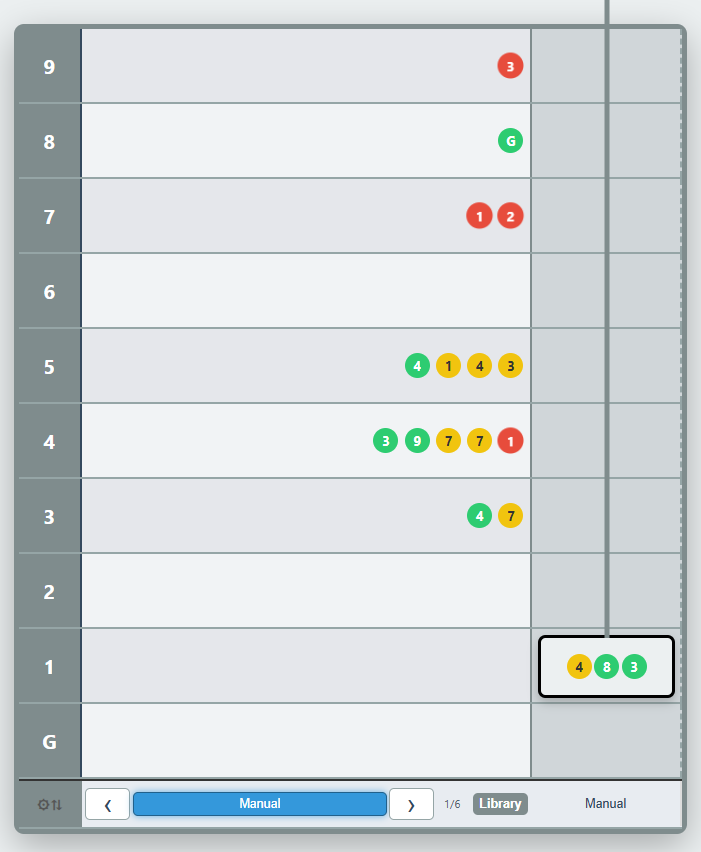
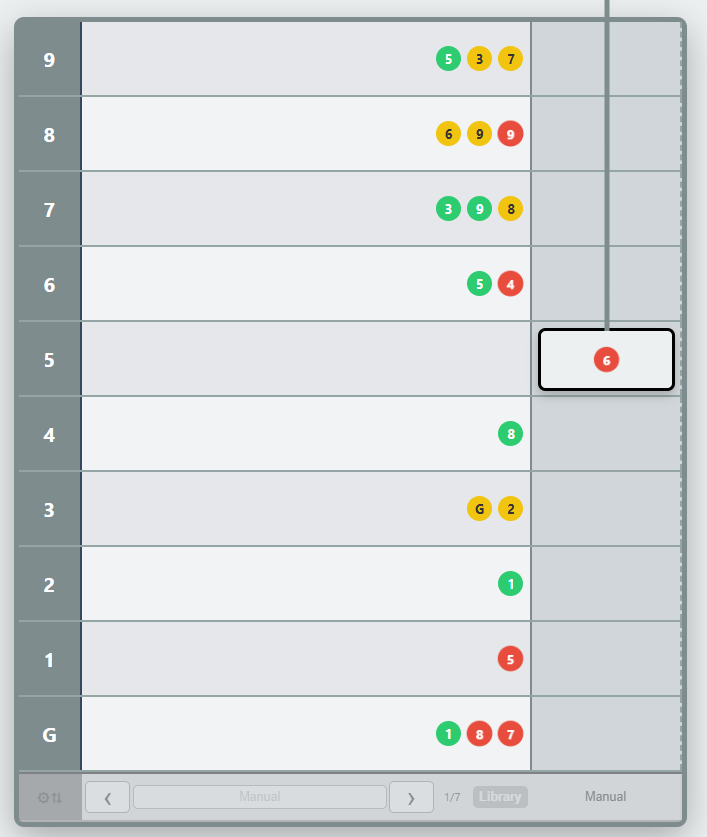
Polish release candidate feedback flow

diff --git a/tests/lifecycle-correctness.spec.js b/tests/lifecycle-correctness.spec.js
@@ -146,7 +146,7 @@ test('briefing removes redundant objective/loadout copy and presents introductio
     expect(result.roomServiceIntro.cartHeader).not.toContain('Cart');
     expect(result.roomServiceIntro.cartItemCount).toBe('1');
     expect(result.roomServiceIntro.cartItemLabel).toContain('Air Freshener');
-    expect(result.roomServiceIntro.cartTotal.split(/\r?\n/)).toEqual(['Total Cost:', '1 Credits']);
+    expect(result.roomServiceIntro.cartTotal).toBe('1 Credits');
     expect(result.laterRound.introTerms).toBe(0);
     expect(result.enduranceRule).toContain('twentieth life');
 });
@@ -2204,6 +2204,32 @@ test('Settings links to the scoreboard without presenting deferred achievements'
         return { settingsOpen, hasAchievements, leaderboardOpen: document.getElementById('leaderboardOverlay').style.display === 'flex', settingsClosed: document.getElementById('settingsOverlay').style.display !== 'flex' };
     });
     expect(result).toEqual({ settingsOpen: true, hasAchievements: false, leaderboardOpen: true, settingsClosed: true });
+});
+
+test('Leaderboard opened from Settings closes back to Settings without resuming play', async ({ page }) => {
+    const result = await page.evaluate(() => {
+        Registry.gameActive = true;
+        document.getElementById('settingsBtn').click();
+        document.getElementById('settingsLeaderboardBtn').click();
+        document.getElementById('closeLbBtn').click();
+        return {
+            settings: document.getElementById('settingsOverlay').style.display,
+            leaderboard: document.getElementById('leaderboardOverlay').style.display,
+            gameActive: Registry.gameActive,
+            closeLabel: document.getElementById('closeLbBtn').textContent
+        };
+    });
+    expect(result).toEqual({ settings: 'flex', leaderboard: 'none', gameActive: false, closeLabel: 'Close' });
+});
+
+test('release candidate uses the approved power-up prices and VIP star icon', async ({ page }) => {
+    const result = await page.evaluate(() => ({
+        doors: Config.GAME_DATA.powerups.doors.tiers.map(tier => tier.cost),
+        musak: Config.GAME_DATA.powerups.musak.tiers.map(tier => tier.cost),
+        vipChallengeIcon: getRoundChallengePresentation(8).find(item => item.id === 'vip')?.icon,
+        vipIntroIcon: getCampaignIntroductionTerms(8).find(term => term.label === 'VIP')?.icon
+    }));
+    expect(result).toEqual({ doors: [1, 2, 3], musak: [2, 4, 8], vipChallengeIcon: '⭐', vipIntroIcon: '⭐' });
 });
 
 test('Debug seed controls expose transient replay actions', async ({ page }) => {

diff --git a/ui-briefing.js b/ui-briefing.js
@@ -31,7 +31,7 @@ window.getRoundChallengePresentation = function(round) {
     const definition = Config.GAME_DATA.rounds[round] || {};
     const metadata = {
         roomService: { label: 'Room Service', icon: '🛎' }, checkout: { label: 'Checkout', icon: '💼' },
-        vip: { label: 'VIP', icon: '👑' }, rooftop: { label: 'Rooftop Party', icon: '🎉' },
+        vip: { label: 'VIP', icon: '⭐' }, rooftop: { label: 'Rooftop Party', icon: '🎉' },
         jam: { label: 'Jams', icon: '⚠' }, stink: { label: 'Stink', icon: '💨' },
         gym: { label: 'Gym Bros', icon: '💪' }, gravity: { label: 'Gravity', icon: '⬆' },
         counterweights: { label: 'Counterweights', icon: '⚙⇅' }, capsule: { label: 'Capsule lifts', icon: '🚀' },
@@ -89,7 +89,7 @@ window.getRoundChallengePresentation = function(round) {
     const icon = (...codes) => String.fromCodePoint(...codes);
     const metadata = {
         roomService: { label: 'Room Service', icon: icon(0x1f37d, 0xfe0f) }, checkout: { label: 'Checkout', icon: icon(0x1f4bc) },
-        vip: { label: 'VIP', icon: icon(0x1f451) }, rooftop: { label: 'Rooftop Party', icon: icon(0x1f378) },
+        vip: { label: 'VIP', icon: icon(0x2b50) }, rooftop: { label: 'Rooftop Party', icon: icon(0x1f378) },
         jam: { label: 'Jams', icon: icon(0x26a0, 0xfe0f) }, stink: { label: 'Stink', icon: icon(0x1f4a8) },
         gym: { label: 'Gym Bros', icon: icon(0x1f4aa) }, gravity: { label: 'Gravity', icon: icon(0x2b06, 0xfe0f) },
         counterweights: { label: 'Counterweights', icon: icon(0x2699, 0x21c5) }, capsule: { label: 'Capsule lifts', icon: icon(0x1f6d7) },
@@ -105,7 +105,7 @@ window.getCampaignIntroductionTerms = function(round) {
     const shopUnlocks = Config.GAME_DATA.shopUnlocks || {};
     const icon = (...codes) => String.fromCodePoint(...codes);
     const challengeTerms = {
-        roomService: ['Room Service', icon(0x1f37d, 0xfe0f)], checkout: ['Checkout', icon(0x1f4bc)], vip: ['VIP', icon(0x1f451)],
+        roomService: ['Room Service', icon(0x1f37d, 0xfe0f)], checkout: ['Checkout', icon(0x1f4bc)], vip: ['VIP', icon(0x2b50)],
         rooftop: ['Rooftop Party', icon(0x1f378)], jam: ['Jams', icon(0x26a0, 0xfe0f)], stink: ['Stink', icon(0x1f4a8)],
         gym: ['Gym Bros', icon(0x1f4aa)], gravity: ['Gravity', icon(0x2b06, 0xfe0f)],
         counterweights: ['Counterweight', icon(0x2699, 0x21c5)], capsule: ['capsules', icon(0x1f6d7)],

diff --git a/style.css b/style.css
@@ -968,8 +968,8 @@ body {
 .cart-container { min-width: 0; background: #f8f9fa; border: 1px dashed #f39c12; border-radius: 6px; padding: 8px; box-sizing: border-box; text-align: left; display: flex; flex-direction: column; min-height: 261px; }
 .cart-header { display: flex; justify-content: space-between; align-items: flex-start; margin-bottom: 8px; flex-shrink: 0; font-size: 14px; }
 .cart-header span:first-child { font-weight: bold; color: #2c3e50; }
-.cart-total { color: #7f8c8d; display: flex; flex-direction: column; align-items: flex-end; line-height: 1.15; }
-.cart-items-grid { display: grid; grid-template-columns: repeat(auto-fit, minmax(34px, 1fr)); gap: 6px; padding-right: 2px; align-content: start; }
+.cart-total { color: #7f8c8d; display: block; font-size: 12px; line-height: 1.15; white-space: nowrap; }
+.cart-items-grid { display: grid; grid-template-columns: repeat(auto-fill, 38px); gap: 6px; padding-right: 2px; align-content: start; justify-content: start; }
 .cart-item { position: relative; border-radius: 5px; padding: 5px; font-size: 20px; cursor: pointer; display: grid; place-items: center; box-shadow: 0 1px 3px rgba(0,0,0,0.1); min-height: 36px; box-sizing: border-box; transition: opacity 0.2s, transform 0.15s; }
 .cart-empty { color: #7f8c8d; font-size: 12px; padding: 8px 2px; }
 .cart-item:hover { opacity: 0.7; }

diff --git a/ui-overlay.js b/ui-overlay.js
@@ -289,7 +289,7 @@ window.initializeUI = function() {
         if (Registry.stats.round === 1) {
             Registry.playerName = document.getElementById("playerName")?.value || "Pilot 1";
             window.Game.Storage.set(window.Game.Keys.PLAYER, Registry.playerName);
-            if (document.getElementById("pilotNameDisplay")) document.getElementById("pilotNameDisplay").innerText = Registry.playerName;
+            if (typeof ui.updatePilotNameDisplay === "function") ui.updatePilotNameDisplay();
 
             if (window.Game.Seed) window.Game.Seed.set(Registry.seed);
             if (document.getElementById("seedDisplay")) document.getElementById("seedDisplay").innerText = Registry.seed;
@@ -394,6 +394,13 @@ window.initializeUI = function() {
             window.Game.Shell?.showCampaignComplete?.();
             if (window.Game.Audio) window.Game.Audio.setContext('menu');
             if (typeof ui.draw === "function") ui.draw();
+            return;
+        }
+        if (Registry.leaderboardReturn === 'settings') {
+            Registry.leaderboardReturn = null;
+            window.openModalExclusive?.('settingsOverlay');
+            window.Game.Audio?.setContext('menu');
+            ui.draw?.();
             return;
         }
         Registry.leaderboardReturn = null;

diff --git a/ui-leaderboard.js b/ui-leaderboard.js
@@ -95,7 +95,7 @@ window.showLeaderboard = function(titleText) {
     
     const closeBtn = document.getElementById('closeLbBtn');
     const restartBtn = document.getElementById('lbRestartBtn');
-    Registry.leaderboardReturn = titleText === 'Campaign Complete' ? 'campaign-complete' : 'resume-game';
+    Registry.leaderboardReturn = titleText === 'Campaign Complete' ? 'campaign-complete' : 'settings';
     
     let shareBtn = document.getElementById('shareLbBtn');
     if (!shareBtn && document.getElementById('leaderboardOverlay')) {
@@ -112,7 +112,7 @@ window.showLeaderboard = function(titleText) {
     }
 
     if (closeBtn) closeBtn.style.display = (titleText === "Game Over!" || titleText === "You Won!") ? "none" : "block";
-    if (closeBtn) closeBtn.textContent = Registry.leaderboardReturn === 'campaign-complete' ? 'Back' : 'Resume';
+    if (closeBtn) closeBtn.textContent = Registry.leaderboardReturn === 'campaign-complete' ? 'Back' : 'Close';
     if (restartBtn) restartBtn.style.display = (titleText === "Game Over!" || titleText === "You Won!") ? "block" : "none";
     if (shareBtn) shareBtn.style.display = 'block';
 

diff --git a/tests/audio.spec.js b/tests/audio.spec.js
@@ -337,11 +337,17 @@ test('Settings leaderboard link swaps music context without retaining gameplay s
     await page.click('#settingsLeaderboardBtn');
     const paused = await page.evaluate(() => window.Game.Audio.getStatus());
     await page.click('#closeLbBtn');
-    const resumed = await page.evaluate(() => window.Game.Audio.getStatus());
+    const returned = await page.evaluate(() => ({
+        audio: window.Game.Audio.getStatus(),
+        settingsVisible: document.getElementById('settingsOverlay').style.display === 'flex',
+        gameActive: Registry.gameActive
+    }));
     expect(paused.context).toBe('menu');
     expect(paused.musicSourceCount).toBe(0);
     expect(paused.rooftopSourceActive).toBe(false);
-    expect(resumed.context).toBe('gameplay');
+    expect(returned.audio.context).toBe('menu');
+    expect(returned.settingsVisible).toBe(true);
+    expect(returned.gameActive).toBe(false);
 });
 
 test('Settings button toggles its modal and menu music retains a position', async ({ page }) => {

diff --git a/ui-shop.js b/ui-shop.js
@@ -214,10 +214,8 @@ window.renderShop = function() {
         
         const totalSpan = document.createElement('span');
         totalSpan.className = 'cart-total';
-        totalSpan.textContent = 'Total Cost:';
-        const totalStrong = document.createElement('strong');
-        totalStrong.textContent = `${currentCartTotal} Credits`;
-        totalSpan.appendChild(totalStrong);
+        totalSpan.textContent = `${currentCartTotal} Credits`;
+        totalSpan.title = 'Total selected power-up Credits';
         
         cartHeader.append(cartSpan, totalSpan);
         cartSpan.textContent = '🛒';

diff --git a/index.html b/index.html
@@ -256,7 +256,7 @@
                 <h2 id="lbTitle">Leaderboard</h2>
                 <ul id="lbList" class="leaderboard-list"></ul>
                 <button id="lbRestartBtn" class="btn btn-red btn-full-width btn-margin-top">New Campaign</button>
-                <button id="closeLbBtn" class="btn btn-gray btn-full-width btn-margin-top">Resume</button>
+                <button id="closeLbBtn" class="btn btn-gray btn-full-width btn-margin-top">Close</button>
             </div>
         </div>
         

diff --git a/Game Economy.md b/Game Economy.md
@@ -6,9 +6,10 @@
 **Last reviewed:** 8 August 2026
 **Principle:** The economy creates decisions; it does not reward grinding or allow every problem to be purchased away.
 
-**1.0 decision:** Retain the current canonical power-up prices for the release candidate. The candidate scarcity-price
-bands below remain future design work, not approved runtime values. The 1.0 evidence task is to measure and document
-inflation across the full 25-round campaign using current prices.
+**1.0 decision:** The release-candidate power-up prices are the values in `design/game-balance.v1.json`. Wide Doors
+Bronze/Silver/Gold cost `1/2/3` Credits and Calming Musak Bronze/Silver/Gold costs `2/4/8` Credits; all other
+current prices remain unchanged. The candidate scarcity-price bands below remain future design work, not approved
+runtime values.
 
 **Authority boundary:** Sections labelled *candidate* describe post-1.0 exploration only. They are not runtime policy,
 release acceptance criteria, or a reason to reinterpret `design/game-balance.v1.json`. Current RC1.0 economy rules are
@@ -211,8 +212,8 @@ Gold must not be universally best. A precise Bronze item used at the correct tim
 ### 5.1.1 Late-campaign credit uplift
 
 Rounds 14-25 apply a canonical `creditMultiplier` of `0.15`, versus the standard `0.10` multiplier. This is the
-approved 50% increase in Credits awarded from the zoning and late-campaign arcs onward. Prices remain unchanged for
-the 1.0 release candidate; affordability and purchase mix remain playtest evidence questions.
+approved 50% increase in Credits awarded from the zoning and late-campaign arcs onward. Affordability and purchase
+mix remain playtest evidence questions.
 
 ### 5.2 Candidate price bands
 
@@ -222,7 +223,8 @@ the 1.0 release candidate; affordability and purchase mix remain playtest eviden
 | Silver | 10–15 | One major investment |
 | Gold | 20–28 | Saving or excellent performance |
 
-The current 1/3/5-style prices are retired as target values because they trivialize scarcity under almost any useful payout model.
+The former 1/3/5-style values are retired as runtime values for Musak; the candidate bands in this section remain
+post-1.0 exploration and must not override the authoritative JSON.
 
 ## 6. Candidate power-up catalog
 
@@ -373,7 +375,9 @@ The economy is functioning when:
 
 ## 13. Current deterministic baseline
 
-The initial automated campaign projection uses the candidate minimum, typical, and excellent payout bands above while applying the currently implemented 1/3/5-style prices and canonical unlock schedule.
+The initial automated campaign projection uses the candidate minimum, typical, and excellent payout bands above while
+applying the pre-RC1.0 price baseline and canonical unlock schedule. It is historical evidence, not a current price
+assertion; regenerate it before using it for release decisions.
 
 | Profile | Purchases selected | Ending bank | Interpretation |
 | --- | ---: | ---: | --- |

diff --git a/DELIVERY_PLAN.md b/DELIVERY_PLAN.md
@@ -39,7 +39,8 @@ human acceptance belong in `TEST_PLAN.md`.
 ## Known, accepted boundaries
 
 - Chrome and Edge on desktop/laptop are the supported RC1 browsers; Firefox and mobile are outside this window.
-- The strict all-Sweep report is an internal diagnostic, not a Friends & Family release gate.
+- The all-Sweep report is a negative-control diagnostic, not a Friends & Family release gate; the strict validator is
+  retained for later balance work.
 - Normal New Campaign uses a persisted random campaign seed; the supplied Debug URI provides controlled higher-round
   and seed reproduction without changing the normal first-impression path.
 - Elapsed-time movement integration is deferred until after RC1.0. The current release may still address targeted
@@ -79,6 +80,16 @@ human acceptance belong in `TEST_PLAN.md`.
 3. Record a concise August release-history entry and keep completed implementation detail out of this plan.
 4. Decide a retention policy for the 48 MB balance trace: concise summary/digest in Git, bulky trace as an artifact or
    otherwise explicitly justified.
+
+## Current polish slice
+
+- Compact the Supply Closet cart from its first item onward, with a single-line Credits total and tooltip-backed
+  icon/count items.
+- Keep the authored campaign rank visible in the live game sidebar, use the gold-star VIP icon consistently in
+  briefings, and return from Settings → Leaderboard to Settings without resuming play.
+- Apply the approved RC1.0 prices: Wide Doors `1/2/3` and Calming Musak `2/4/8` Credits.
+- Replace the first-dispatch, zoning, and capsule README captures with the supplied product screenshots and record
+  their provenance in `assets/media/README.md`.
 
 ## Release sequence
 

diff --git a/TEST_PLAN.md b/TEST_PLAN.md
@@ -26,8 +26,8 @@ npm.cmd run test:release
 ```
 
 Record the commit, command result, elapsed time, and report hash in `docs/archive/RELEASE_HISTORY.md`. The all-Sweep
-portion is a strict diagnostic result: it demonstrates whether unattended Sweep fails as intended, but it is not by
-itself a Friends & Family promotion blocker.
+portion is a negative-control diagnostic: it demonstrates unattended Sweep behavior, but it is not by itself a
+Friends & Family promotion blocker. The strict validator remains available for later balance work.
 
 ## Limited internal confirmation — 15 minutes
 
@@ -50,6 +50,11 @@ Use current Chrome or Edge on desktop/laptop. Record the build identifier shown 
    tooltips use Bronze/Silver/Gold.
 8. Confirm the four-column Supply Closet remains readable at the supported desktop viewport; spot-check R8 traffic and
    the R11/R25 titles.
+9. Confirm the cart total is a compact single-line Credits value even with one item, cart quantities remain icon/count
+   tokens, the live sidebar retains the authored rank after starting a round, and VIP uses the gold star in both
+   briefing chips and first-introduction text.
+10. From Settings, open Leaderboard and close it; confirm Settings reappears and gameplay does not resume. Confirm
+    the release-candidate prices are Wide Doors `1/2/3` and Calming Musak `2/4/8` Credits.
 
 ## Lift-state remediation checks
 

diff --git a/assets/media/README.md b/assets/media/README.md
@@ -11,12 +11,12 @@ is the repository-retained record of superseded captures.
 
 | File | Role | README caption / use | Source status |
 | --- | --- | --- | --- |
-| `campaign-basic-dispatch.png` | README gallery | First dispatch | Curated capture |
+| `campaign-basic-dispatch.png` | README gallery | First dispatch | Curated replacement supplied by product |
 | `campaign-supply-closet.png` | README gallery | Supply Closet | Curated capture |
 | `campaign-workshop.png` | README gallery | Automation Workshop | Curated capture supplied by product |
-| `campaign-zoning-fleet.png` | README gallery | Zoned fleet | Curated replacement |
+| `campaign-zoning-fleet.png` | README gallery | Zoned fleet | Curated replacement supplied by product |
 | `campaign-counterweights-live.png` | README gallery | Counterweight puzzle | Curated live capture |
-| `campaign-capsule-operations.png` | README gallery | Capsule dispatch at scale | Curated capture |
+| `campaign-capsule-operations.png` | README gallery | Capsule dispatch at scale | Curated replacement supplied by product |
 | `social-preview.png` | Open Graph/social preview | 1200×630 project preview | Canonical generated/curated preview |
 
 ## Superseded or candidate captures
